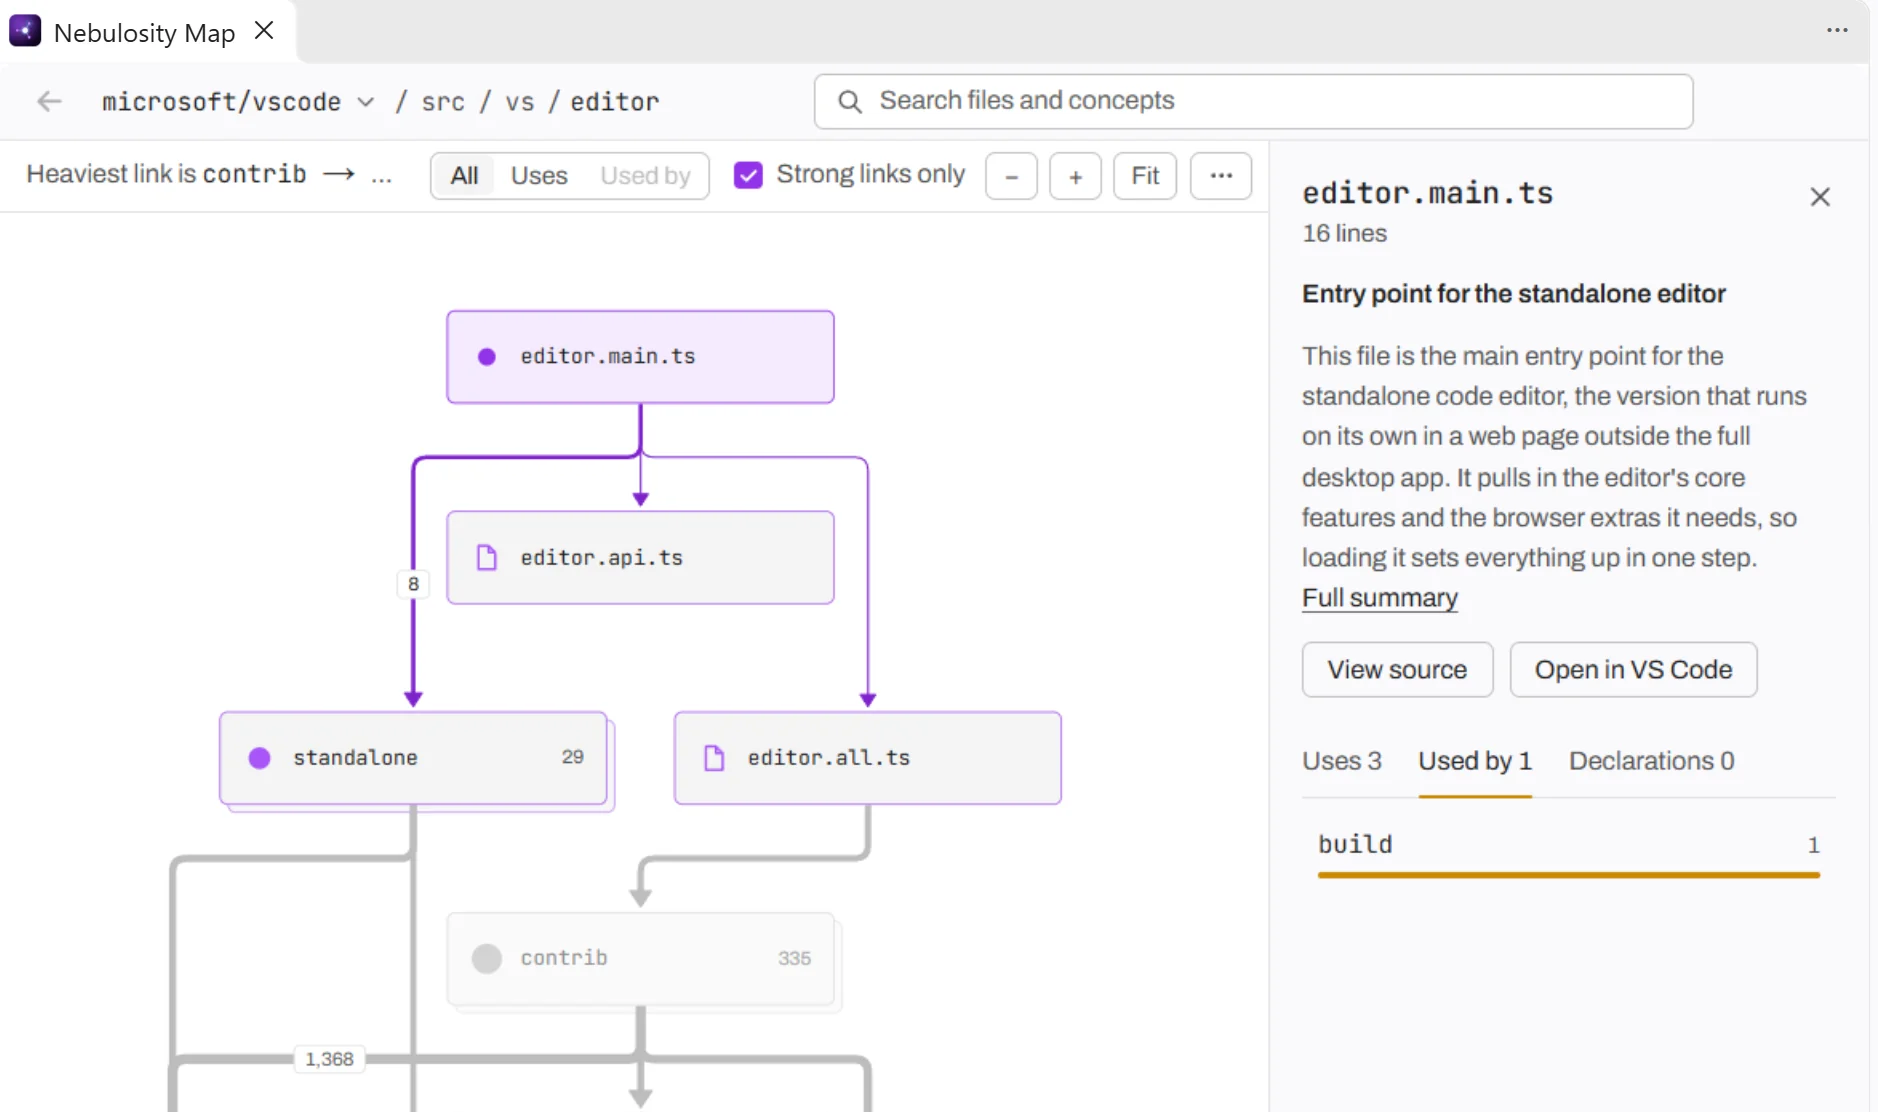
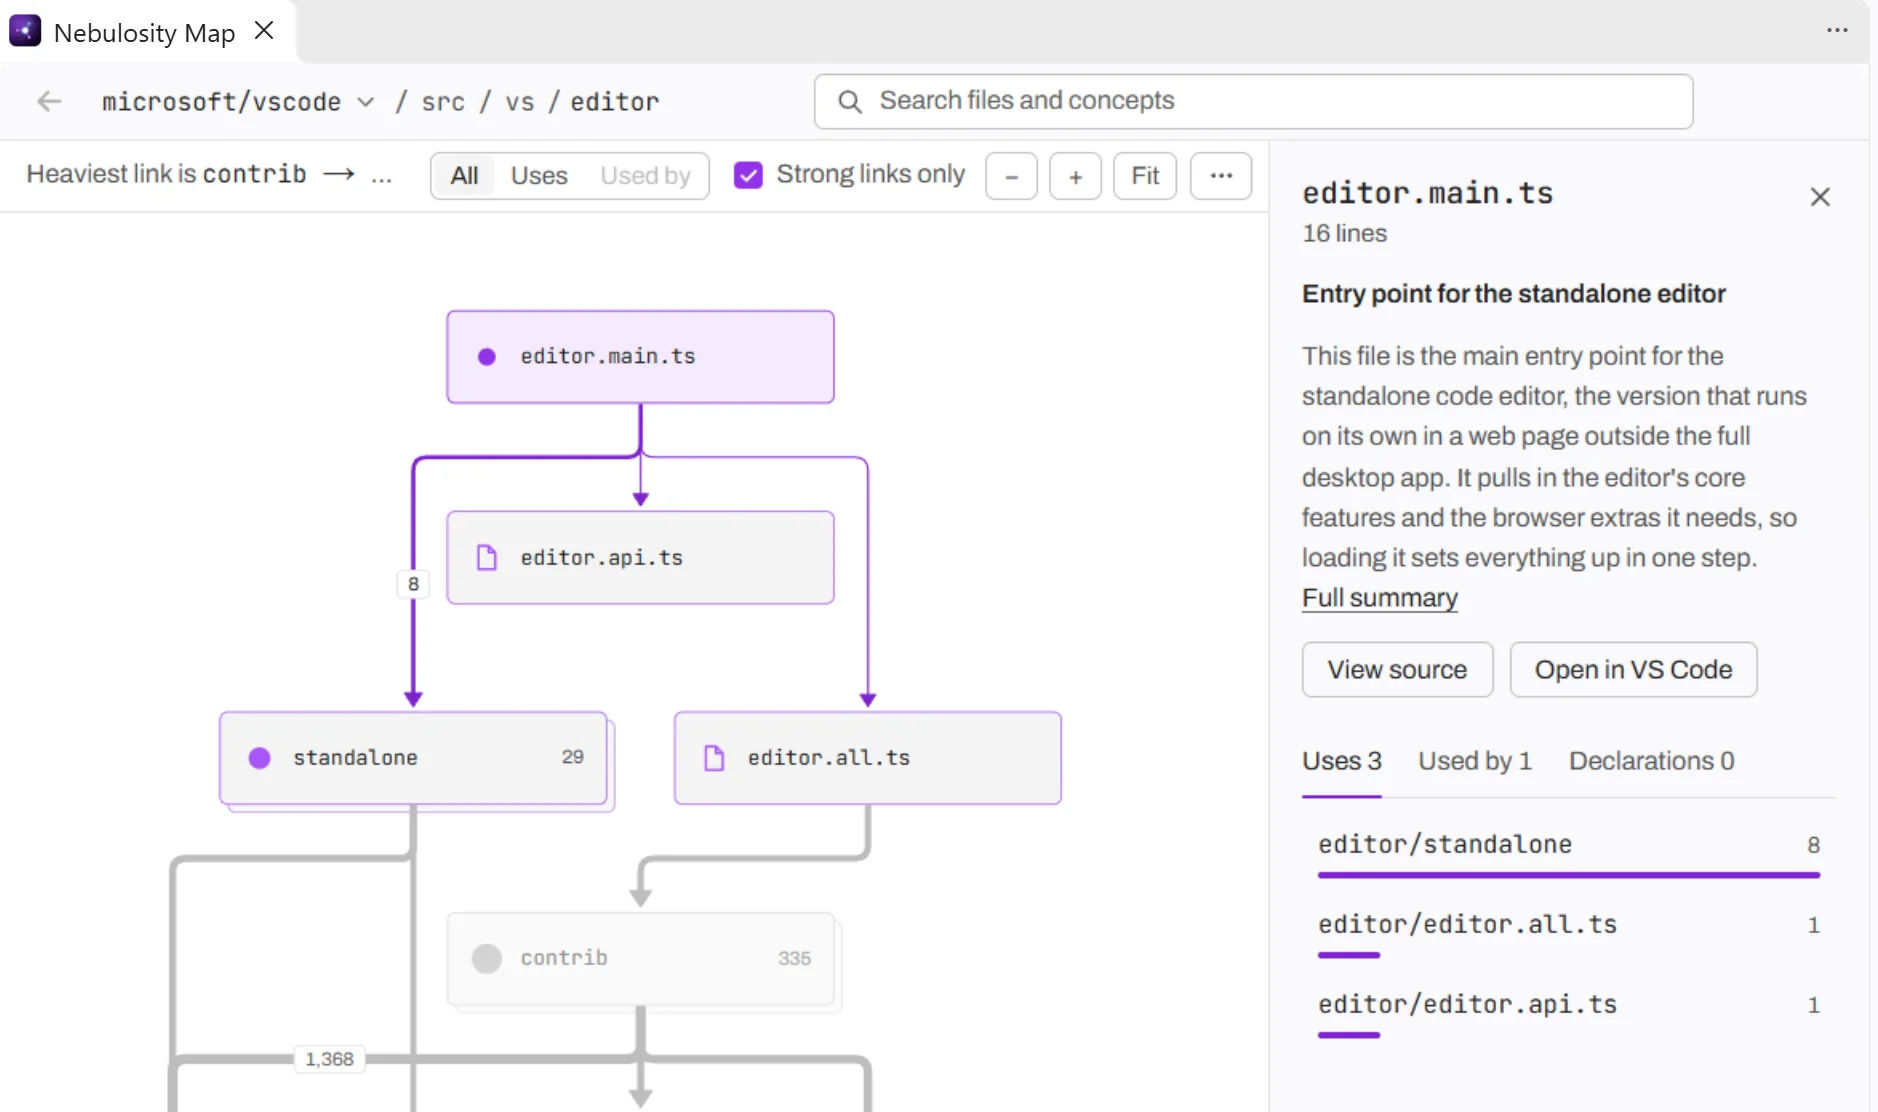
feat(site): every screenshot's inspector on Uses, and the uses row shows what a box uses
The owner likes the Uses side's lilac better than Used by's gold, so the hero window, its phone crop, the search crop
and og.png are taken again with the inspector on its Uses tab. editor.main.ts lists standalone, editor.all.ts and
editor.api.ts there, the same three its lines go to on the Map, where Used by had build, a folder off the level with
no line to it.

The second row was about what uses a box (src at the root, gold lines in). It's now "Click a box to see what it
uses", with workbench selected inside src/vs, the toolbar on Uses, and its six lines out in lilac. The crop is 700
CSS px tall in place of 660 so the bottom row of boxes fits, and the img's height follows.

Same capture as before, a scratch VS Code profile at 1600 by 1000 and 2x over a read-only copy of the demo's index,
from main at c1a05e5. The clip in the follows row is unchanged.

Changed region(s): [[0.6794, 0.6727, 0.9883, 0.795], [0.7103, 0.8255, 0.8647, 0.9478]]

diff --git a/site/index.html b/site/index.html
@@ -57,7 +57,7 @@
 
     <figure class="shot">
       <div class="shot-head">
-        <p>VS Code with <code>editor.main.ts</code> open. The Map beside it shows the three files it imports and the folder that uses it.</p>
+        <p>VS Code with <code>editor.main.ts</code> open. The Map beside it shows what that file imports, heaviest first.</p>
         <div class="themes" role="group" aria-label="Theme of the screenshots" hidden>
           <button type="button" data-theme="dark" aria-pressed="true">Dark 2026</button>
           <button type="button" data-theme="light" aria-pressed="false">Light 2026</button>
@@ -69,8 +69,8 @@
           <img src="images/window-dark-2400.webp" srcset="images/window-dark-1200.webp 1200w, images/window-dark-2400.webp 2400w" sizes="(min-width: 1240px) 1144px, 100vw"
             data-src="images/window-{t}-2400.webp" data-srcset="images/window-{t}-1200.webp 1200w, images/window-{t}-2400.webp 2400w"
             width="2400" height="1500" fetchpriority="high"
-            alt="VS Code in its Dark 2026 theme. editor.main.ts is open on the left, and the Nebulosity Map on the right selects it, with lines to the three files it imports, editor.api.ts, editor.all.ts and the standalone folder, its summary, and build as the folder that uses it"
-            data-alt="VS Code in its {name} theme. editor.main.ts is open on the left, and the Nebulosity Map on the right selects it, with lines to the three files it imports, editor.api.ts, editor.all.ts and the standalone folder, its summary, and build as the folder that uses it">
+            alt="VS Code in its Dark 2026 theme. editor.main.ts is open on the left, and the Nebulosity Map on the right selects it, with lines to what it imports, the standalone folder, editor.api.ts and editor.all.ts. Its summary lists the same three under Uses, standalone first with 8 imports"
+            data-alt="VS Code in its {name} theme. editor.main.ts is open on the left, and the Nebulosity Map on the right selects it, with lines to what it imports, the standalone folder, editor.api.ts and editor.all.ts. Its summary lists the same three under Uses, standalone first with 8 imports">
         </picture>
       </a>
     </figure>
@@ -93,12 +93,12 @@
       </div>
       <div class="feature">
         <div>
-          <h3>Click a box to see what uses it</h3>
-          <p>Its summary, then the folders that use it, heaviest first. A line's weight is how many imports it carries.</p>
+          <h3>Click a box to see what it uses</h3>
+          <p>Its summary, then what it imports, heaviest first. A line's weight is how many imports it carries.</p>
         </div>
         <a class="frame" href="images/uses-dark.webp" data-href="images/uses-{t}.webp" title="Show the screenshot full size">
-          <img src="images/uses-dark.webp" data-src="images/uses-{t}.webp" width="1872" height="1320" loading="lazy"
-            alt="src selected at the root of VS Code's repository. extensions uses it through 665 imports, build through 16, and .eslint-plugin-local and .github through 2 each">
+          <img src="images/uses-dark.webp" data-src="images/uses-{t}.webp" width="1872" height="1400" loading="lazy"
+            alt="workbench selected inside src/vs, with lines to the six things it uses. base takes 20,648 of its imports, platform 19,171, editor 3,652, nls.ts 1,579, sessions 89 and amdX.ts 32">
         </a>
       </div>
       <div class="feature">
